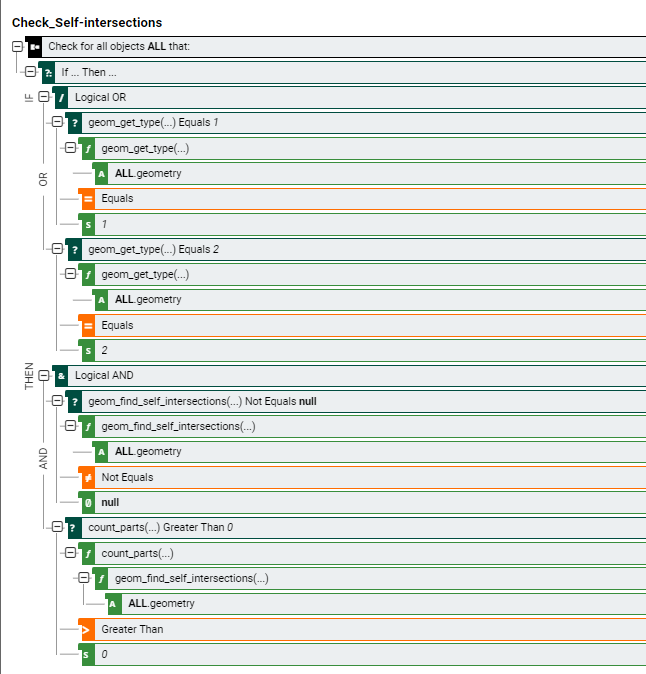
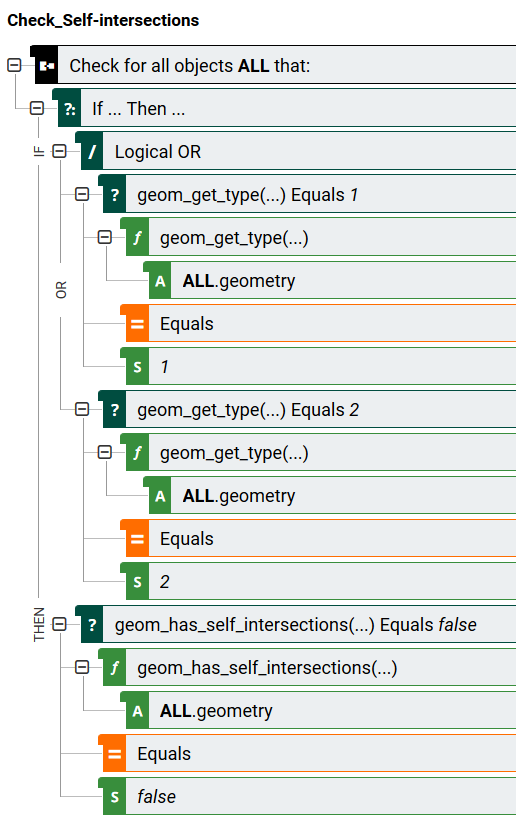
Updated Screenshots
Updated Screenshots and some wording

Changed region(s): [[0.0, 0.0, 1.0, 0.997]]

diff --git a/1IntegrateForArcGIS/Essential Geometry Checks/README.md b/1IntegrateForArcGIS/Essential Geometry Checks/README.md
@@ -3,117 +3,123 @@ This repo folder contains the Essential Geometry Checks [Ruleset](Essential%20Ge
 For instructions on uploading and publishing Rulesets, please refer to the following [documentation](https://1spatial.com/documentation/1integrate-arcgis/v2/Topics/Rules/Free_Rulesets.htm)
 
 ## Check for Duplicate Features
-Checks for two features within the same class (aka Feature Class) that has the same geometry 
+Checks for two features within the same class (aka Feature Class) that have the same geometry.  
+![Alt text](img/EqualGeometryExample.png?raw=true "Equal Geometry Example")  
+
 ### Rule Syntax
-Check for objects all that there are no objects duplicate features for which :duplicate features.geometry equals :all.geometry and class(:duplicate features) equals class(:all) and :duplicate features does not equal :all  
+Check for objects ALL that there are no objects ALL2 for which :ALL2.geometry equals :ALL.geometry and class(:ALL2) equals class(:ALL) and :ALL2 does not equal :ALL.  
 ![Alt text](img/DuplicateFeaturesRule.png?raw=true "Duplicate Feature Rule Screenshot")
+
 ### Report Action Syntax
-Reports on a feature that has a duplicate geometry.
-Action for all objects ALL: if it is the case that ALL.geometry is not equal to null then let dupfeatgeom = ALL.geometry and then report on get_point(dupfeatgeom)
+Reports on a feature that has a duplicate geometry.  
+Action for all objects ALL: if it is the case that :ALL.geometry is not equal to null then let dupfeatgeom = :ALL.geometry and then report on get_point(dupfeatgeom).  
 ![Alt text](img/DuplicateFeaturesReportAction.png?raw=true "Duplicate Feature Report Action Screenshot")
 
 
 ## Check for Duplicate Vertices
-Checks for Duplicate Verticies.  The Duplicate Vertex checks a geometry (Line or Polygon) that has any consecutive coincident vertices.  This rule uses the Built-In function has_duplicates() that Tests to see if a geometry has any consecutive coincident vertices.  It returns a Boolean value, true if the geometry has any consecutive coincident vertices and false if it does not. 
+Checks that a geometry (Line or Polygon) does not have any consecutive coincident vertices. This rule uses the built-in function has_duplicates() that tests to see if a geometry has any consecutive coincident vertices.  It returns a Boolean value, 'true' if the geometry has any consecutive coincident vertices and 'false' if it does not.  
+
 ### Rule Syntax
-Check for objects all that has_duplicates(:all.geometry) equals false  
+Check for objects ALL that has_duplicates(:ALL.geometry) equals 'false'.  
 ![Alt text](img/DuplicateVerticesRule.png?raw=true "Duplicate Vertex Rule Screenshot")
+
 ### Report Action Syntax
-Reports on each vertex that has a duplicate as defined above.
-Action for all objects ALL: if it is the case that ALL.geometry is not equal to null then let dupPointsCollection = geom_find_duplicates(ALL.geometry, 0) and then for all objects duppoint in dupPointsCollection do report on duppoint  
+Reports on each vertex that has a duplicate as defined above.  
+Action for all objects ALL: if it is the case that :ALL.geometry is not equal to null then let dupPointsCollection = geom_find_duplicates(:ALL.geometry, 0) and then for all objects duppoint in dupPointsCollection do report on duppoint.  
 ![Alt text](img/DuplicateVerticesReportAction.png?raw=true "Duplicate Vertex Action Screenshot")
 
 
 ## Check for Kickbacks
-Checks whether a geometry has any kickbacks, aka snap-backs, cutbacks, (a type of geometric error where a line segment changes direction twice by approximately 180 degrees to repeat part of the line).  This rule uses the has_kickbacks built-in function.  The has_kickbacks function Checks whether a geometry has any kickbacks (a type of geometric error where a line segment changes direction twice by approximately 180 degrees to repeat part of the line).  The parameters can be configured.  The inputs are 1) geometry to test. 2) (optional) The maximum value for the sine of the angles in the kickback. Note: If omitted, this defaults to the sine of 1 degree. 3) (optional) The maximum width of the kickback. 
+Checks whether a geometry has any kickbacks (a.k.a. snap-backs, cutbacks). A kickback is a type of geometric error where a line segment changes direction twice by approximately 180 degrees to repeat part of the line.  This rule uses the built-in function has_kickbacks(). The parameters can be configured. The inputs are 1) geometry to test. 2) (optional) The maximum value for the sine of the angles in the kickback. Note: If omitted, this defaults to the sine of 1 degree. 3) (optional) The maximum width of the kickback.  
 This rule uses a 12 degree tolerance.  
 ![Alt text](img/KickbackExample.png?raw=true "Kickback Example")
 
 ### Rule Syntax
-Check for objects all that has_kickbacks(:all.geometry,sin(to_radians(12))) equals false  
+Check for objects ALL that has_kickbacks(:ALL.geometry,sin(to_radians(12))) equals 'false'.  
 ![Alt text](img/KickbackRule.png?raw=true "Kickback Rule Screenshot")
 
 ### Report Action Syntax
-Reports on each instance of a kickback on the non-conforming geometry.  The reporting point location is within the center of the actual kickback.
-Action for all objects ALL: if it is the case that ALL.geometry is not equal to null then let kickbackgeom = geom_find_kickbacks(ALL.geometry, sin(to_radians(12))) and then for all objects eachpart in kickbackgeom do report on eachpart  
+Reports on each instance of a kickback on the non-conforming geometry. The reporting point location is within the center of the actual kickback.  
+Action for all objects ALL: if it is the case that :ALL.geometry is not equal to null then let kickbackgeom = geom_find_kickbacks(:ALL.geometry, sin(to_radians(12))) and then for all objects eachpart in kickbackgeom do report on eachpart.  
 ![Alt text](img/KickbackReportAction.png?raw=true "Kickback Report Action Screenshot")
 
 
-## Check for OGC Simple
-Tests to see if a feature is simple based on the [OGC definition](http://www.opengeospatial.org/standards/sfa).
+## Check OGC Simple Feature
+Tests to see if a feature is simple based on the [OGC definition](http://www.opengeospatial.org/standards/sfa).  
 According to the OGC Specifications, a simple geometry is one that has no anomalous geometric points, such as self intersection or self tangency and primarily refers to 0 or 1-dimensional geometries (i.e. [MULTI]POINT, [MULTI]LINESTRING). Geometry validity, on the other hand, primarily refers to 2-dimensional geometries (i.e. [MULTI]POLYGON) and defines the set of assertions that characterizes a valid polygon. The description of each geometric class includes specific conditions that further detail geometric simplicity and validity.
-A POINT is inheritably simple as a 0-dimensional geometry object.
-MULTIPOINTs are simple if no two coordinates (POINTs) are equal (have identical coordinate values).
-A LINESTRING is simple if it does not pass through the same POINT twice (except for the endpoints, in which case it is referred to as a linear ring and additionally considered closed). 
-The information on OGC Simple was pulled from the PostGIS Documentation on [OGC Simplicity](https://postgis.net/docs/using_postgis_dbmanagement.html#OGC_Validity).  
+A POINT is inheritably simple as a 0-dimensional geometry object.  
+MULTIPOINTs are simple if no two coordinates (POINTs) are equal (have identical coordinate values).  
+A LINESTRING is simple if it does not pass through the same POINT twice (except for the endpoints, in which case it is referred to as a linear ring and additionally considered closed).  
+The information on OGC Simple was pulled from the PostGIS Documentation on [OGC Simplicity](https://postgis.net/docs/using_postgis_dbmanagement.html#OGC_Validity).
 
 ### Rule Syntax
-Check for all objects ALL that: is_simple(ALL.geometry) is equal to  true  
+Check for all objects ALL that is_simple(:ALL.geometry) is equal to 'true'.  
 ![Alt text](img/CheckOGCSimpleRule.png?raw=true "OGC Simple Rule Screenshot")
 
 ### Report Action Syntax
-Reports on each feature that was reported as a non-conformance from the Simple Feature Check. 
-NOTE: Must attach the rule above to report correctly.
-Action for all objects ALL: let issimplegeom = ALL.geometry and then report on get_point(issimplegeom)  
+Reports on each feature that was reported as a non-conformance from the Check OGC Simple Feature rule.  
+NOTE: Must be paired as a reporting action to the rule above to report correctly.  
+Action for all objects ALL: let issimplegeom = :ALL.geometry and then report on get_point(issimplegeom).  
 ![Alt text](img/CheckOGCSimpleReportAction.png?raw=true "Kickback Report Action Screenshot")
 
 
-## Check for OGC Valid
-Tests to see if a feature is valid based on the [OGC definition](http://www.opengeospatial.org/standards/sfa).
-By definition, a POLYGON is always simple. It is valid if no two rings in the boundary (made up of an exterior ring and interior rings) cross. The boundary of a POLYGON may intersect at a POINT but only as a tangent (i.e. not on a line). A POLYGON may not have cut lines or spikes and the interior rings must be contained entirely within the exterior ring.
-A MULTIPOLYGON is valid if and only if all of its elements are valid and the interiors of no two elements intersect. The boundaries of any two elements may touch, but only at a finite number of POINTs.
+## Check OGC Valid Feature
+Tests to see if a feature is valid based on the [OGC definition](http://www.opengeospatial.org/standards/sfa).  
+By definition, a POLYGON is always simple. It is valid if no two rings in the boundary (made up of an exterior ring and interior rings) cross. The boundary of a POLYGON may intersect at a POINT but only as a tangent (i.e. not on a line). A POLYGON may not have cut lines or spikes and the interior rings must be contained entirely within the exterior ring.  
+A MULTIPOLYGON is valid if and only if all of its elements are valid and the interiors of no two elements intersect. The boundaries of any two elements may touch, but only at a finite number of POINTs.  
 The information on OGC Simple and OGC Valid was pulled from the PostGIS Documentation on [OGC Validity](https://postgis.net/docs/using_postgis_dbmanagement.html#OGC_Validity).  
 
 ### Rule Syntax
-Check for all objects ALL that: is_valid(ALL.geometry) is equal to  true  
+Check for all objects ALL that is_valid(:ALL.geometry) is equal to 'true'.  
 ![Alt text](img/CheckOGCValidRule.png?raw=true "OGC Valid Rule Screenshot")
 
 ### Report Action Syntax
-Reports on each feature that was reported as a non-conformance from the OGC Valid Feature Check. 
-NOTE: Must attach the rule above to report correctly.
-Action for all objects ALL: let isvalidgeom = ALL.geometry and then report on get_point(isvalidgeom)    
+Reports on each feature that was reported as a non-conformance from the Check OGC Valid Feature rule.  
+NOTE: Must be paired as a reporting action to the rule above to report correctly.  
+Action for all objects ALL: let isvalidgeom = :ALL.geometry and then report on get_point(isvalidgeom).  
 ![Alt text](img/CheckOGCValidReportAction.png?raw=true "Kickback Report Action Screenshot")
 
 
 ## Check Self-Intersections
-Checks polylines and polygons for Self-Intersections.  Uses the Built-In Function find_self_intersections which returns a multipart geometry representing each point there is a self-intersection.
+Checks polylines and polygons for self-intersections. Uses the built-in function find_self_intersections() which returns a multipart geometry representing each point location where self-intersections occur.  
 
 ### Rule Syntax
-Check for all objects ALL that: if it is the case that (geom_get_type(ALL.geometry) is equal to  1 or geom_get_type(ALL.geometry) is equal to  2) then (geom_find_self_intersections(ALL.geometry) is not equal to null and count_parts(geom_find_self_intersections(ALL.geometry)) is greater than  0)  
-![Alt text](img/CheckSelf-IntersectionRule.png?raw=true "OGC Valid Rule Screenshot")
+Check for all objects ALL that: if it is the case that (geom_get_type(:ALL.geometry) is equal to 1 or geom_get_type(:ALL.geometry) is equal to  2) then (geom_find_self_intersections(:ALL.geometry) is not equal to null and count_parts(geom_find_self_intersections(:ALL.geometry)) is greater than 0).  
+![Alt text](img/CheckSelf-IntersectionRule.png?raw=true "Self-Intersection Rule Screenshot")
 
 ### Report Action Syntax
-Reports on the exact location of each self-intersecting polyline or polygon.  Uses the Built-In Function find_self_intersections which returns a multipart geometry representing each point location there is a self-intersection.
-Action for all objects ALL: if it is the case that ALL.geometry is not equal to null then let selfintersect = geom_find_self_intersections(ALL.geometry) and then for all objects eachpart in selfintersect do report on eachpart   
+Reports on the exact location of each self-intersecting polyline or polygon. Uses the built-in function find_self_intersections() which returns a multipart geometry representing each point location where self-intersections occur.  
+Action for all objects ALL: if it is the case that :ALL.geometry is not equal to null then let selfintersect = geom_find_self_intersections(:ALL.geometry) and then for all objects eachpart in selfintersect do report on eachpart.  
 ![Alt text](img/CheckSelf-IntersectionReportAction.png?raw=true "Kickback Report Action Screenshot")
 
 
 ## Check for Single Part Geometries
-Checks that all geometries are single part and not a Multi-Part Geometries.  A multi-part geometry are geometries that contain more than one part.  For example, the State of Hawaii, if modeled as one feature in a table, would be a multi-part polygon because it contains multiple polygon geometries for each island within that record.  This rule uses the Count-Parts to determine if there is only 1 part for the geometry.  If the feature has no geometry or has more than 1 part, it will be flagged as a non-conformance.
+Checks that geometries are single part and not a multi-part geometry. Multi-part geometries are geometries that contain more than one part. For example, the State of Hawaii, if modeled as one feature in a table, would be a multi-part polygon because it contains multiple polygon geometries for each island within that record.  This rule uses the Count-Parts to determine if there is only 1 part for the geometry.  If the feature has no geometry or has more than 1 part, it will be flagged as a non-conformance.  
 ![Alt text](img/MultiPartExample.png?raw=true "Multipart Example in Hawaii")
 
 ### Rule Syntax
-Check for objects all that count_parts(:all.geometry) equals 1  
+Check for objects ALL that count_parts(:ALL.geometry) equals 1.  
 ![Alt text](img/CountPartsRule.png?raw=true "Multi-Part Rule Screenshot")
 
 ### Report Action Syntax
-Reports on each part of a geometry if the geometry does not conform to the "Check Single Part Geometry Check" rule.  NOTE: Must be used in conjunction with the Check_SinglePart_Geometry rule.
-Action for all objects ALL: let simplegeom = ALL.geometry and then for all objects eachpart in simplegeom do report on get_point(eachpart)  
+Reports on each part of a geometry if the geometry fails the Check Single Part Geometry Check rule.  
+NOTE: Must be paired as a reporting action to the rule above to report correctly.  
+Action for all objects ALL: let simplegeom = :ALL.geometry and then for all objects eachpart in simplegeom do report on get_point(eachpart).  
 ![Alt text](img/CountPartsReportAction.png?raw=true "Multi-Part Rule Screenshot")
 
 
 ## Check for Spikes
-Checks whether a geometry has any spikes.  A spike is defined to be three consecutive points (A, B, C) such that: 1) The distance AB is less than the distance BC. 2) The sine of the angle ABC is less than a maximum value which may be specified by the second parameter. 3) (Optionally) the distance AB is less than a maximum "length" value specified by the third parameter.  This rule uses the has_spikes() built-in function which has the following parameters.  1) The geometry to test. 2) (optional) The maximum value for the sine of the angle in the spike (a real number in the range [0, 1]). Note: If omitted, this defaults to the sine of 1 degree (approximately 0.017). 3) (optional) The maximum length of the spike.
+Checks whether a geometry has any spikes. A spike is defined to be three consecutive points (A, B, C) such that: 1) The distance AB is less than the distance BC. 2) The sine of the angle ABC is less than a maximum value which may be specified by the second parameter. 3) (Optionally) the distance AB is less than a maximum "length" value specified by the third parameter.  This rule uses the has_spikes() built-in function which has the following parameters.  1) The geometry to test. 2) (optional) The maximum value for the sine of the angle in the spike (a real number in the range [0, 1]). Note: If omitted, this defaults to the sine of 1 degree (approximately 0.017). 3) (optional) The maximum length of the spike.  
 This rule uses a 6 degree tolerance.  
 ![Alt text](img/SpikeExample.png?raw=true "Spike Example")
 
 ### Rule Syntax
-Check for objects all that has_spikes(:all.geometry,sin(to_radians(6))) equals false  
+Check for objects ALL that has_spikes(:ALL.geometry,sin(to_radians(6))) equals 'false'.  
 ![Alt text](img/SpikeRule.png?raw=true "Spike Rule Screenshot")
 
 ### Report Action Syntax
-Reports on each instance of a spike on the non-conforming geometry.  The reporting point location is at the exact location (the vertex) causing the spike in the geometry.
-Action for all objects ALL: if it is the case that ALL.geometry is not equal to null then let spikegeom = find_spikes(ALL.geometry, sin(to_radians(6))) and then for all objects eachpart in spikegeom do report on eachpart  
+Reports on each instance of a spike on the non-conforming geometry. The reporting point location is at the exact location (the vertex) causing the spike in the geometry.  
+Action for all objects ALL: if it is the case that :ALL.geometry is not equal to null then let spikegeom = find_spikes(:ALL.geometry, sin(to_radians(6))) and then for all objects eachpart in spikegeom do report on eachpart.  
 ![Alt text](img/SpikeReportAction.png?raw=true "Spike Report Action Screenshot")
 
 
